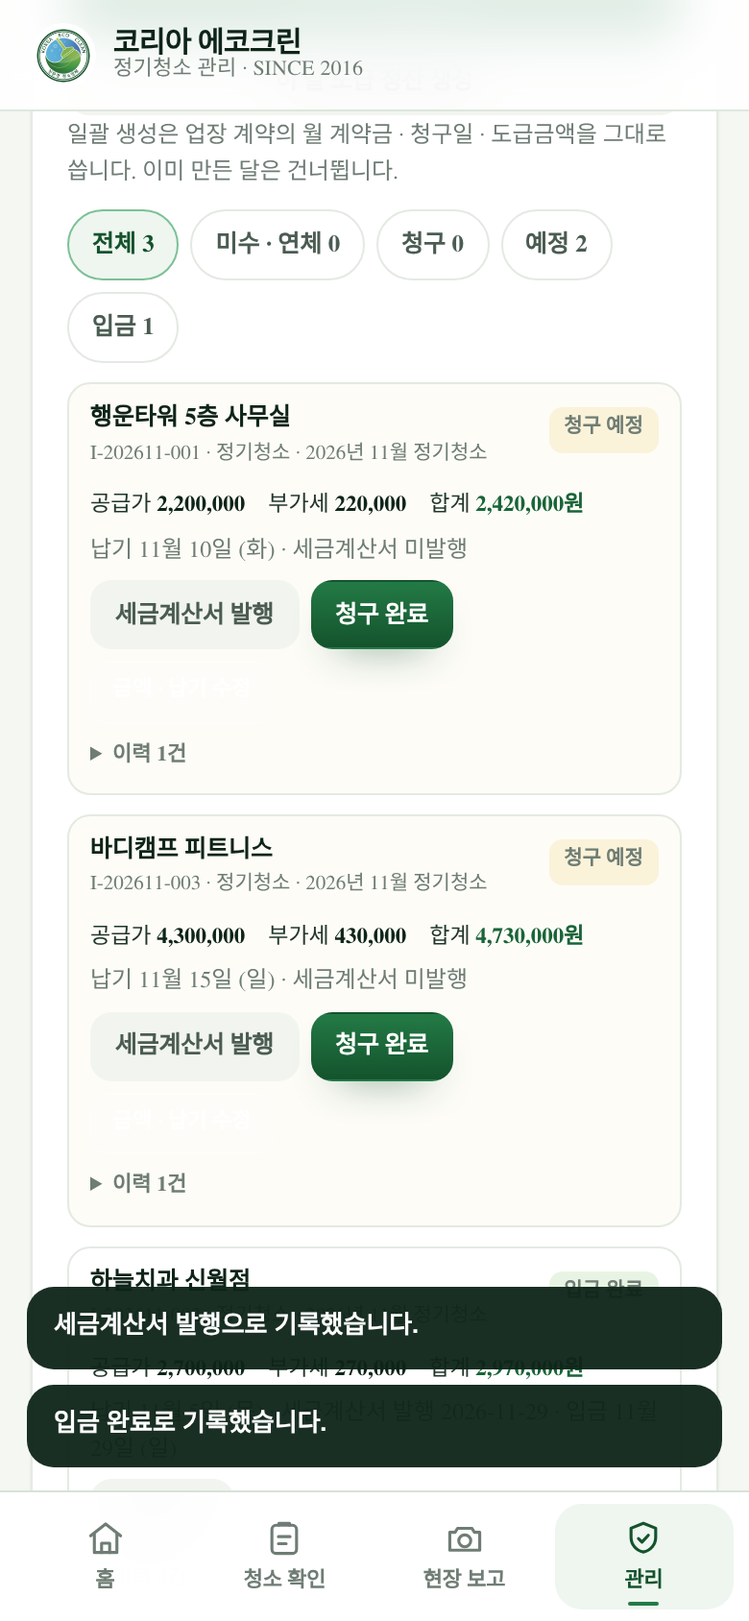
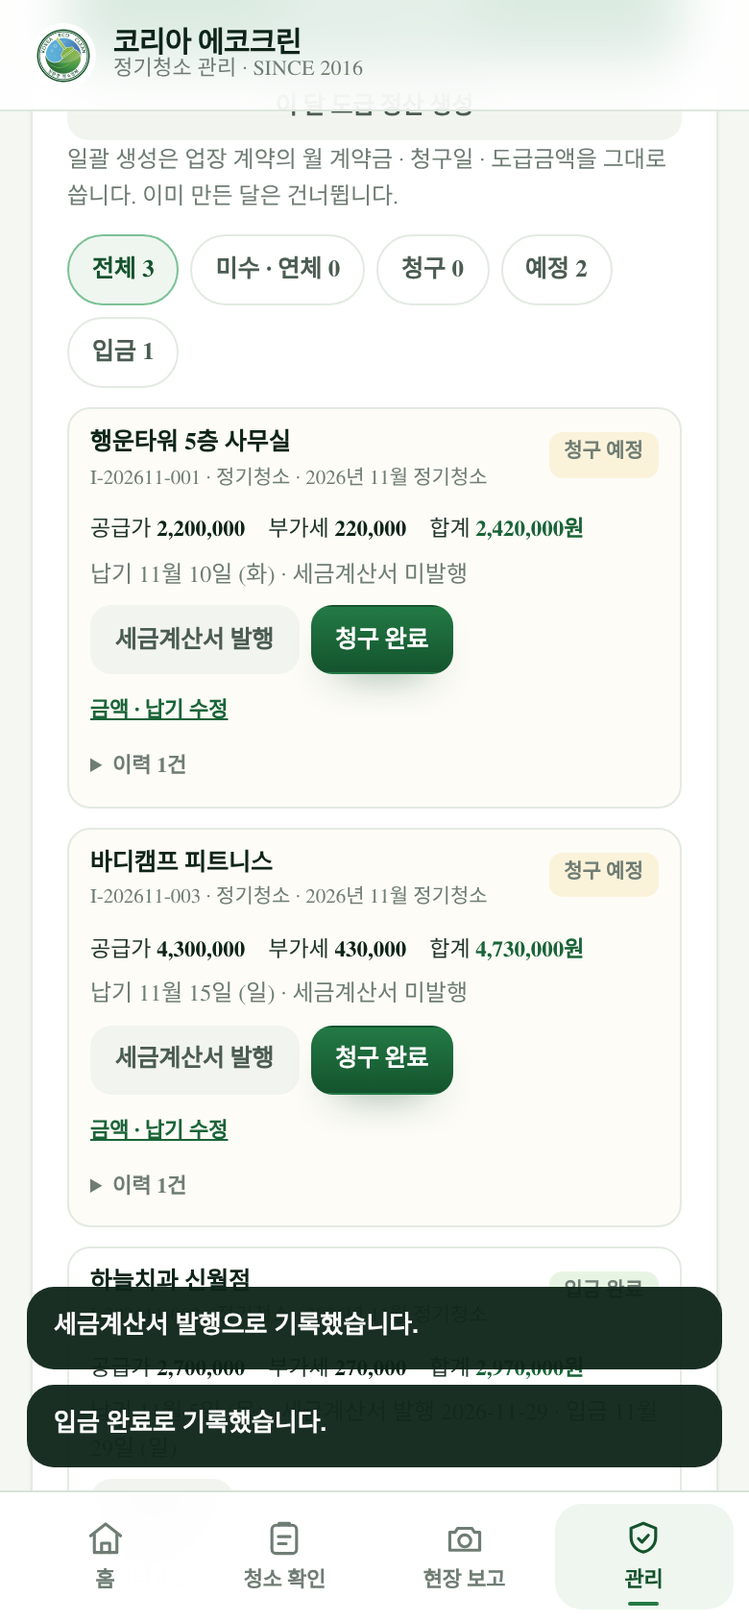
docs: v2.14.0 청구 · 입금 · 미수금 · 도급 정산 기록 · 화면 스크린샷 7장 (라이브 390×844)

diff --git a/app/README.md b/app/README.md
@@ -17,9 +17,9 @@
 | 탭 | 사용자 | 기능 |
 | --- | --- | --- |
 | **홈** | 전체 | 앱 입구 — 회사 로고, 현장 사진 갤러리, **청소 확인 · 현장 보고 · 관리** 바로가기, **회사 홈페이지 배너** |
-| **청소 확인** | 고객 | **등록된 번호는 전화번호만**으로 / **처음 · 추가 인원은 전화번호 + 1회용 초대코드**로 **우리 현장 전용 방** 입장 → **① 견적**(견적서 시트 · 견적 시 오염 사진 · **추가 작업 견적 확인·승인**) · **② 계약**(표준 도급 계약서 전자서명·PDF · **고객사 사업자등록증 업로드/미리보기** · 특이사항) · **③ 관리**(3단계 비교 + 일자별 청소 보고 + **추가 작업 안내**) |
-| **현장 보고** | 팀장 · 직원 | 전화번호+비밀번호+**팀장 고유코드** 또는 **1회용 직원 초대코드** 로그인 → **관리업장 · 계약서(본인) · 장비 · 봉투** 탭 → 현장 선택 시 **본인 도급 조건**(이 업장의 도급금액) + **현장 운영 정보**(청소 공정·출입방법·쓰레기 배출위치·주차방법) + **사진 3분류**·점검 항목·메모 보고(등록 후 대표 확인을 거쳐 고객사 제출) + **특이사항 목록 · 직접 등록**(진행 상태만, 금액 없음). **장비 · 봉투**는 청소장비·배접봉투 구입 신청과 내 영수증(인쇄/PDF) — **구입 당사자 직원만** 보입니다 |
-| **관리** | 최고관리자(대표) · 부관리자(본부장) | **최고관리자**: **보고 확인 · 고객사 제출**(팀장 보고 승인) · **특이사항 · 추가 영업**(발견 → 추가 견적 초안 → 고객 발송 → 승인 → 작업 완료/보류) · **관리자 모드 ↔ 직원 모드 전환** · 전체 매출 정리 · 고객 견적/계약 · 직원 계약(금액 포함) · **직원 평가(A~F)** · 직원방 · **청소장비·봉투 단가와 영수증 발행** · 현장/팀장/고객 관리 전부. **부관리자(본부장)**: 본인 담당 현장의 운영 정보와 내 계약서만 — 다른 직원의 관리·직원 평가·고객 계약서·견적서·금액은 표시되지 않습니다 |
+| **청소 확인** | 고객 | **등록된 번호는 전화번호만**으로 / **처음 · 추가 인원은 전화번호 + 1회용 초대코드**로 **우리 현장 전용 방** 입장 → **① 견적**(견적서 시트 · 견적 시 오염 사진 · **추가 작업 견적 확인·승인**) · **② 계약**(표준 도급 계약서 전자서명·PDF · **고객사 사업자등록증 업로드/미리보기** · 특이사항) · **③ 관리**(3단계 비교 + 일자별 청소 보고 + **추가 작업 안내** + **청구 · 입금 · 세금계산서**) |
+| **현장 보고** | 팀장 · 직원 | 전화번호+비밀번호+**팀장 고유코드** 또는 **1회용 직원 초대코드** 로그인 → **관리업장 · 계약서(본인) · 장비 · 봉투** 탭 → 현장 선택 시 **본인 도급 조건**(이 업장의 도급금액) + **현장 운영 정보**(청소 공정·출입방법·쓰레기 배출위치·주차방법) + **사진 3분류**·점검 항목·메모 보고(등록 후 대표 확인을 거쳐 고객사 제출) + **특이사항 목록 · 직접 등록**(진행 상태만, 금액 없음) + **내 도급 정산**(본인 것만). **장비 · 봉투**는 청소장비·배접봉투 구입 신청과 내 영수증(인쇄/PDF) — **구입 당사자 직원만** 보입니다 |
+| **관리** | 최고관리자(대표) · 부관리자(본부장) | **최고관리자**: **보고 확인 · 고객사 제출**(팀장 보고 승인) · **특이사항 · 추가 영업**(발견 → 추가 견적 초안 → 고객 발송 → 승인 → 작업 완료/보류) · **관리자 모드 ↔ 직원 모드 전환** · 전체 매출 정리(계약 매출 vs 청구 vs 입금 vs 미수금) · **청구 · 입금 · 미수금**(월별 청구 생성 · 청구/입금/세금계산서 처리) · **팀장 도급 정산**(월별 정산 · 지급 완료) · 고객 견적/계약 · 직원 계약(금액 포함) · **직원 평가(A~F)** · 직원방 · **청소장비·봉투 단가와 영수증 발행** · 현장/팀장/고객 관리 전부. **부관리자(본부장)**: 본인 담당 현장의 운영 정보와 내 계약서만 — 다른 직원의 관리·직원 평가·고객 계약서·견적서·금액은 표시되지 않습니다 |
 
 - 보고를 등록하면 **최고관리자(대표) 확인 대기**로 등록되고, 대표가 확인해 **고객사에 제출**해야 고객 방에 표시됩니다.
 - 각 고객사는 **자기 현장 기록만** 볼 수 있습니다(방 격리).
@@ -138,6 +138,73 @@
 
 - 관리 → 새 현장 등록에서 담당 팀장을 고르거나, 현장의 담당 팀장을 바꾸면 그 팀장의 계약서 `siteIds`(별첨 표)에 **현장이 자동으로 들어갑니다**.
 - **체결된 계약서**는 금액·서명·기간을 건드리지 않고 별첨 줄만 더합니다(금액이 비어 있는 새 줄은 공란). 담당이 아닌 팀장의 **미체결** 계약서에서는 빠집니다.
+
+### v2.14.0 — 청구 · 입금 · 미수금 · 팀장 도급 정산 (통합 운영 앱 9단계 · 기획서 22·23장)
+
+> 2026-11-28 "결제 · 청구 · 미수금 · 도급 정산 이어서 진행". **유료 PG · 자동이체 없이**(업장 레코드 안 `site.invoices[]` · `site.payouts[]`), **새 서버 컬렉션 · 스키마 변경 · 운영 데이터 마이그레이션 없음**.
+> 돈은 앱이 움직이지 않습니다 — 계좌이체 · 홈택스 발행은 대표가 직접 하고, 앱은 **청구 · 입금 · 지급 기록**을 남깁니다.
+
+**① 「전체 매출 정리」에 계약 매출 vs 청구 vs 입금 vs 미수금**
+
+- 기존 계약금 · 도급 · 수수료 · 순수 매출 아래에 **계약 매출(월) · 청구 합계 · 입금 완료 · 미수금** 네 칸이 따로 붙습니다. 미수금은 주황색으로 눈에 띄게.
+- 계약 매출은 월 계약금, 청구 합계는 그 달 청구서 합계(예정 포함), 입금 완료는 실입금, 미수금은 청구 − 입금(일부 입금의 남은 금액 포함)입니다.
+
+**② 「청구 · 입금 · 미수금」 — 만들고 → 청구하고 → 받으면 입금**
+
+- **[이 달 청구 일괄 생성]** — 업장 계약의 **월 계약금 · 청구일**로 그 달 정기청소 청구를 만듭니다(번호 `I-YYYYMM-NNN`, 업장이 달라도 번호가 이어짐). 계약금이 비어 있는 업장은 만들지 않고 "계약금 미등록 N곳"으로 알려 줍니다. 두 번 눌러도 중복되지 않습니다.
+- 청구 카드: 공급가 · 부가세(10%) · 합계 · 납기일 · 세금계산서 발행 여부 · 이력.
+  - **[청구 완료]** → 청구 예정에서 청구로. **납기일이 지나면 자동으로 «미수 · 연체»** 로 보입니다(색 · 필터 · 「납기 지남」 표시).
+  - **[세금계산서 발행]** → 발행일을 오늘로 기록(발행 취소도 가능). 실제 발행은 홈택스에서 직접.
+  - **[입금 완료]** → 오늘 입금으로 기록. 일부만 받았다면 **[금액 · 납기 수정]** 에서 금액을 맞추고 처리.
+  - 예정 청구는 **[청구 취소]** 가능. 입금 완료된 청구는 금액을 바꿀 수 없습니다.
+- 상태 필터(전체 · 미수 · 청구 · 예정 · 입금)로 미수 · 연체 건만 모아 바로 처리합니다.
+
+**③ 추가 작업 청구** — 고객이 승인한 추가 작업 견적(`A-2026-001`)을 골라 그 달 청구로 올립니다(금액은 견적 금액, 필요하면 수정). 같은 견적으로 두 번 청구되지 않습니다.
+
+**④ 「팀장 도급 정산」 — 도급계약서 지급일(익월 15일) 기준**
+
+- **[이 달 도급 정산 생성]** — 업장 **도급금액**과 팀장 도급계약서 **지급일**로 팀장별 정산을 만듭니다(번호 `P-YYYYMM-NNN`). 담당 팀장은 ① 이 업장 팀장 계약의 계정 → ② 배정 → ③ 담당 팀장 이름 순으로 찾고, **대표가 맡은 업장 · 팀장 계정이 없는 업장은 만들지 않습니다.**
+- 정산 카드: 도급액 · 부가세 · 지급액 · 지급일. **[지급 완료]** 를 누르면 오늘 지급으로 기록하고 팀장 화면에 바로 보입니다.
+- 팀장은 현장 화면의 **「내 도급 정산」** 에서 본인 정산의 월 · 지급일 · 지급액 · 상태만 봅니다. **본부장 화면에는 이 패널이 없습니다.**
+
+**⑤ 권한 분리**
+
+| 항목 | 대표 | 본부장 | 팀장 · 직원 | 고객 |
+| --- | --- | --- | --- | --- |
+| 고객 청구 금액 · 미수금 · 세금계산서 | 전체 | **X** | **X** | 본인 업장만 |
+| 청구 생성 · 청구/입금/발행 처리 | O | X | X | X |
+| 팀장 도급 정산 | 전체 | 본인 것만 | **본인 것만** | **X** |
+| 내부 메모 · 이력 · 견적 id | O | X | X | **X** |
+
+- 고객 ③ 관리의 **「청구 · 입금」**: 본인 업장의 청구월 · 공급가 · 부가세 · 합계 · 상태 · **세금계산서 발행 여부** 만. 직원 이름 · 내부 메모 · 다른 업장 · 도급 정산은 나오지 않습니다.
+- 청구 생성 · 입금 · 세금계산서 발행 · 도급 지급은 모두 **업장 변경 이력**에 남습니다.
+
+**⑥ 화면**
+
+| 매출 정리 (계약·청구·입금·미수) | 청구 · 입금 · 미수금 | 미수 · 연체 카드 | 팀장 도급 정산 |
+| --- | --- | --- | --- |
+| ![매출](docs/screenshots/v2140-admin-revenue.png) | ![청구](docs/screenshots/v2140-admin-billing.png) | ![미수](docs/screenshots/v2140-admin-misoo.png) | ![정산](docs/screenshots/v2140-admin-payout.png) |
+
+| 입금 완료 카드 | 고객 청구 · 입금 | 팀장 내 도급 정산 |
+| --- | --- | --- |
+| ![입금](docs/screenshots/v2140-admin-paid.png) | ![고객](docs/screenshots/v2140-customer-billing.png) | ![팀장](docs/screenshots/v2140-leader-payout.png) |
+
+- `js/store.js` — `INVOICE_STATUS` · `PAYOUT_STATUS` · `billingMonthKey` · `billingDueDate` · `payoutDueDate` · `invoiceStats` · `payoutStats` · `normalizeInvoice(s)` · `normalizePayout(s)` · `listInvoices` · `getInvoice` · `generateMonthlyInvoices` · `createExtraInvoice` · `updateInvoice` · `markInvoiceBilled` · `markInvoicePaid` · `setInvoiceTaxInvoice` · `cancelInvoice` · `generateMonthlyPayouts` · `listPayouts` · `markPayoutPaid` · `billingSummary`.
+- `js/views/admin.js` — 「전체 매출 정리」의 청구 칸 · 「청구 · 입금 · 미수금」 · 「팀장 도급 정산」 · `js/views/customer.js` — 고객 「청구 · 입금」 · `js/views/leader.js` — 「내 도급 정산」 · `css/styles.css` · `sw.js` `CACHE_VERSION` **v2.14.0**.
+
+**검증 (2026-11-28)**
+
+| 테스트 | 결과 |
+| --- | --- |
+| `tests/test_stage8_billing.py` (신규) | **144/144** — 번호 · 납기 · 부가세 계산, 청구/입금/세금계산서/취소, 미수 판정, 추가 청구, 도급 정산, 권한 4역할, 라이브 63행 보존 |
+| `tests/test_stage8_render.py` (신규) | **58/58** — 대표 매출 정리 4칸 · 청구 패널 · 정산 패널, 고객 청구 칸, 팀장 내 정산(고객 금액 비노출), 본부장 비노출 |
+| `tests/browser_stage8.py` (신규) | **35/35** — 실제 Chromium 전 과정, 콘솔 오류 0 |
+| `tests/live_stage8.py` (신규) | **34/34** — 라이브 배포본 390×844, `?sync=off` |
+| 기존 25종 + `run_tests.py` | **2,022/2,022** |
+| `browser_test` · `browser_stage4`~`7` · `browser_v2111` | 273 · 40 · 50 · 65 · 42 · 33 |
+| `check_static` · `run_views` | ALL PASSED |
+
+합계 **2,022개 파이썬 검사 + 538개 브라우저 검사 + 라이브 34개** 통과. 라이브 DB `ecoclean_items` **63행 그대로**(sha256 동일). 서비스 워커 `CACHE_VERSION` **v2.14.0**, GitHub Pages `built` 확인.
 
 ### v2.13.0 — 특이사항 · 추가 견적 자동 생성 (통합 운영 앱 8단계 · 기획서 21장)
 
@@ -1014,6 +1081,12 @@ vercel --prod
   quoteId,                                 /* 이 업장이 나온 견적 */
   contractId,                              /* 이 업장의 고객 계약서 */
   staffContractIds:[...],                  /* 이 업장을 맡은 팀장 계약들 */
+  /* 9단계 (v2.14.0) — 청구 · 팀장 도급 정산 (업장 레코드 안, 새 컬렉션 없음) */
+  invoices:[{ id, invoiceNo:'I-202611-001', month:'2026-11', kind:'regular|extra', quoteId,
+              title, dueDate, amount, vat, total, status:'scheduled|billed|paid|overdue',
+              taxInvoice:'none|issued', taxIssuedAt, paidAt, paidAmount, note, history:[...] }],
+  payouts:[{ id, payoutNo:'P-202611-001', month:'2026-11', leaderId, leaderName, contractId,
+             dueDate, amount, vat, total, status:'scheduled|paid', paidAt, note, history:[...] }],
   history:[{ id, at, actor, action, note, changes:[{field, from, to}] }] }
 
 // 실제 고객사 예시: (주) 라이트하우스코스메틱 (site_lighthouse, EC-4108,
@@ -1084,6 +1157,10 @@ storage tables: `sites` `reports` `photos` `inquiries` `accounts` `roomCodes` `g
 - iPhone Safari는 `capture` 속성을 무시하고 사진 선택만 됩니다(사진 보관함 → 카메라 촬영 가능).
 - 다크 모드는 지원하지 않습니다(브랜드 라이트 테마 고정).
 - 등록된 번호는 비밀번호 없이 입장하므로, 번호를 아는 사람은 그 기기에서 방을 열 수 있습니다. 실제 운영에서는 서버 인증 + OTP로 반드시 바꾸세요.
+- **v2.14.0 청구 · 정산은 기록만 합니다.** 실제 결제(PG) · 자동이체 · 세금계산서 발행(홈택스) · 계좌 입금 확인은 대표가 직접 하고, 앱에는 청구 · 입금 · 지급 사실만 남깁니다. 청구서 · 정산서 PDF/인쇄 시트는 아직 없습니다.
+- 청구 · 정산도 업장 레코드 안에 쌓이므로 **두 기기가 같은 업장을 동시에 고치면 나중 저장이 이깁니다**(방문 기록 · 특이사항과 같은 한계). Supabase Auth · RLS 전환 때 별도 테이블로 분리하는 것이 좋습니다.
+- 도급 정산의 부가세는 10%로 잡혀 있습니다. 프리랜서(3.3% 원천징수) 정산은 금액을 직접 고쳐 주세요(자동 원천징수 계산 없음).
+- 미수(연체)는 납기일과 오늘을 비교해 화면에서 계산합니다. 문자 · 메일 독촉 알림은 아직 없습니다.
 
 ---
 

diff --git a/app/docs/upgrade-plan-1to10.md b/app/docs/upgrade-plan-1to10.md
@@ -651,6 +651,101 @@
 - 추가 견적 PDF는 기존 견적서 시트의 인쇄를 그대로 씁니다(서버 PDF 생성 없음).
 - 특이사항 사진은 보고서 사진 참조를 재사용합니다. 보고서를 삭제해도 특이사항은 남습니다(기록 보존).
 
+## 9-I. 청구 · 입금 · 미수금 · 팀장 도급 정산 단계에서 실제로 구현한 것 (v2.14.0 · 기획서 22·23장)
+
+기획서 22장(결제 · 청구 · 미수금)과 23장(팀장 도급 정산)을 **무료 범위**(업장 레코드 안 `invoices[]` · `payouts[]`)로 올렸습니다.
+**새 서버 컬렉션 · 서버 스키마 · 운영 데이터 마이그레이션 없음.** 돈이 실제로 오가는 일(PG 결제·자동이체·세금계산서 실제 발행)은 하지 않고,
+**누가 얼마를 청구했고 언제 입금·지급되었는지 기록·확인**하는 데까지입니다(계좌이체 · 홈택스는 대표가 직접).
+
+### 9-I-1. 왜 업장 안(`site.invoices[]` · `site.payouts[]`)에 두었나
+
+`public.ecoclean_items.collection` 의 check 제약을 건드리지 않고(라이브 DB 보호), `site.issues[]` · `site.visits[]` 와 같은 방식으로
+업장 레코드 안에 쌓아 기기 간 동기화를 그대로 씁니다. 예전 업장은 필드가 없어도 빈 배열로 읽힙니다(마이그레이션 불필요).
+
+### 9-I-2. 데이터 (업장 안 `invoices[]` · `payouts[]`)
+
+| 무엇 | 칸 | 모양 |
+| --- | --- | --- |
+| 청구 | `site.invoices[]` | `{id, siteId, siteCode, siteName, invoiceNo, month, kind, quoteId, title, dueDate, amount(공급가), vat, total, status, taxInvoice, taxIssuedAt, paidAt, paidAmount, note, issuedBy, history[], createdAt, updatedAt}` |
+| 청구 번호 | `invoiceNo` | `I-YYYYMM-NNN` — **모든 업장 통틀어** 그 달 순번(중복 없음) |
+| 청구 상태 | `status` | `scheduled`(청구 예정) → `billed`(청구 완료) → `paid`(입금 완료), 납기일이 지나면 **읽을 때 `overdue`(미수 · 연체)** |
+| 세금계산서 | `taxInvoice` | `none`(미발행) · `issued`(발행완료) + `taxIssuedAt` |
+| 청구 구분 | `kind` | `regular`(정기청소 · 월 계약) · `extra`(추가 작업 · 1회, `quoteId` 연결) |
+| 도급 정산 | `site.payouts[]` | `{id, siteId, siteCode, siteName, payoutNo, month, leaderId, leaderName, contractId, dueDate, amount, vat, total, status, paidAt, note, history[], createdAt, updatedAt}` |
+| 정산 번호 | `payoutNo` | `P-YYYYMM-NNN` — 같은 방식으로 그 달 순번 |
+| 정산 상태 | `status` | `scheduled`(정산 예정) → `paid`(지급 완료) |
+
+- 청구 · 정산 모두 **전/후 상태 · 사유 · 처리자**를 자기 `history[]` 에 남기고, 같은 동작을 **업장 이력**(`site.history`)에도 남깁니다.
+- 상태 `overdue` 는 저장하지 않고 **납기일과 오늘을 비교해 읽을 때 계산**합니다(기기마다 같은 결과, 값이 저절로 바뀌지 않음).
+
+### 9-I-3. 계산 규칙 (임의 확정 금지)
+
+| 항목 | 규칙 |
+| --- | --- |
+| 월 청구액(공급가) | 업장 계약의 `contract.contractAmount`(월 계약금). 비어 있으면 청구를 만들지 않고 `계약금 미등록`으로 건너뜁니다. |
+| 부가세 | 공급가의 **10%**(`vatOf`). 계약 비고에 `부가세 포함`이 있으면 0원 · 합계 = 공급가. |
+| 납기일 | 계약의 청구일(`billingDay`)을 해석 — `매월 10일`·`10` → 그 달 10일, `익월 15일` → 다음 달 15일, 숫자가 없으면(`협의 중`) **납기일 없음**(그래서 미수 판정도 안 함). 31일은 그 달 말일로 맞춤. |
+| 청구 번호 | 그 달 마지막 `I-YYYYMM-NNN` + 1 (업장이 달라도 이어짐) |
+| 정산 지급액 | 업장 계약의 `contract.subcontractAmount`(도급금액) + 부가세 10% |
+| 정산 지급일 | 팀장 도급계약서의 지급일(`settlementDay`, 기본 15)을 **익월**로 계산(도급계약서 제5조 지급일 익월 15일 기준). `당월`이라고 적힌 계약만 그 달. |
+| 정산 담당 팀장 | ① 이 업장의 팀장 계약 중 계정이 연결된 것(체결 우선) → ② 업장 `assignee` → ③ 담당 팀장 이름과 같은 팀장 계정. **대표(채종병)가 맡은 업장 · 팀장 계정이 없는 업장은 만들지 않고 건너뜁니다.** |
+| 청구 합계 · 미수금 | 청구 합계 = 그 달 청구서 전체(예정 포함). 입금 완료 = 실입금 합계(일부 입금 포함). **미수금 = 청구 − 입금**(일부 입금의 남은 금액 포함), 연체 = 그중 납기 지난 금액. |
+| 계약 매출 | 그 달 월 계약금 합계(계약이 살아 있는 업장). 청구 합계와 따로 보여 계약 대비 청구·입금을 비교합니다. |
+
+- 이미 그 달 정기청구 · 팀장별 정산이 있으면 건너뜁니다(여러 번 눌러도 중복 없음).
+- 추가 작업 청구는 **고객이 승인한 추가 견적**(`quotes.kind:'extra'` + `customerDecision:'approved'`)만 만들 수 있고, 같은 견적으로 두 번 만들지 않습니다.
+- 입금 완료된 청구는 금액을 바꾸지 않고, 아직 청구하지 않은(예정) 청구만 취소할 수 있습니다.
+
+### 9-I-4. 저장소 함수
+
+- 정의: `INVOICE_STATUS` · `INVOICE_STATUS_ORDER` · `INVOICE_KINDS` · `TAX_INVOICE_STATUS` · `PAYOUT_STATUS` · `VAT_RATE` · `MAX_SITE_INVOICES/PAYOUTS` · `billingMonthKey` · `billingMonthLabel` · `shiftBillingMonth` · `vatOf` · `billingDueDate` · `payoutDueDate` · `invoiceKindOf/Label` · `invoiceStatusKey` · `invoiceStatus` · `isInvoicePaid/Unpaid` · `normalizeInvoice(s)` · `sortInvoices` · `invoiceStats` · `invoiceNoSequence` · `nextInvoiceNo` · `customerInvoiceView` · `normalizePayout(s)` · `payoutStatusKey` · `sortPayouts` · `payoutStats` · `payoutNoSequence` · `nextPayoutNo` · `leaderPayoutView`.
+- 조회: `listInvoices({siteId,month,status,unpaid,limit}, {actor})` · `getInvoice` · `listPayouts({siteId,month,status,leaderId}, {actor})` · `billingSummary({month}, {actor})`.
+- 생성 · 처리(대표만): `generateMonthlyInvoices` · `createExtraInvoice` · `updateInvoice` · `markInvoiceBilled` · `markInvoicePaid` · `setInvoiceTaxInvoice` · `cancelInvoice` · `generateMonthlyPayouts` · `markPayoutPaid`.
+- 내부: `_saveSiteInvoices` · `_saveSitePayouts` · `_collectInvoices` · `_collectPayouts` · `_resolveSiteLeader`.
+
+### 9-I-5. 화면
+
+- **대표 「전체 매출 정리」**: 기존 계약금 · 도급 · 수수료 · 순수 매출 아래에 **계약 매출(월) · 청구 합계 · 입금 완료 · 미수금** 칸을 따로 추가했습니다.
+- **대표 「청구 · 입금 · 미수금」 패널**: ‹ 지난달 / 다음달 › 이동, 합계 4칸, **[이 달 청구 일괄 생성]**, **[이 달 도급 정산 생성]**, 상태 필터(전체 · 미수·연체 · 청구 · 예정 · 입금), 청구 카드마다 공급가·부가세·합계·납기·세금계산서·이력과 **[청구 완료] · [입금 완료] · [세금계산서 발행] · [금액 · 납기 수정](예정 청구는 [청구 취소])**. 미수(연체) 건이 먼저 옵니다.
+- **대표 「팀장 도급 정산」 패널**: 이 달 정산 예정 · 지급 완료 합계, 팀장별 카드(도급액 · 부가세 · 지급액 · 지급일)와 **[지급 완료]**(실지급일·메모 기록).
+- **추가 작업 청구 만들기**: 고객이 승인했지만 아직 청구하지 않은 추가 견적을 골라 그 달 청구로 만듭니다(금액 확인·수정 가능).
+- **고객 ③ 관리 「청구 · 입금」**: 본인 업장의 청구월 · 구분 · 공급가 · 부가세 · 합계 · 납기 · 상태(입금 완료 · 입금 전) · **세금계산서 발행 여부**만. 직원 이름 · 내부 메모 · 견적 id · 도급 정산은 나오지 않습니다.
+- **팀장 「내 도급 정산」**(업장 화면, 「내 도급 조건」 아래): 본인 정산의 월 · 번호 · 지급일 · 지급액 · 상태만. **고객 청구 금액 · 다른 팀장 정산 · 회사 내부 조건은 나오지 않습니다.** 본부장(부관리자) 화면에는 이 패널이 없습니다.
+
+### 9-I-6. 권한 분리 (구현 · 테스트로 확인)
+
+| 항목 | 대표 | 본부장 | 팀장 · 직원 | 고객 |
+| --- | --- | --- | --- | --- |
+| 고객 청구 · 미수금 · 세금계산서 | 전체 | **X**(요청 거절) | **X**(요청 거절) | 본인 업장만 |
+| 청구 생성 · 청구/입금/발행 처리 | O | X | X | X |
+| 팀장 도급 정산 | 전체 | 본인 것만(금액은 본인 것만) | **본인 것만** | **X**(요청 거절) |
+| 도급 정산 생성 · 지급 처리 | O | X | X | X |
+| 내부 메모 · 이력 · 견적 id | O | X | X | **X** |
+
+### 9-I-7. 검증 (2026-11-28)
+
+| 테스트 | 결과 |
+| --- | --- |
+| `tests/test_stage8_billing.py` (신규) | **144/144** — 번호 · 날짜 · 부가세 계산, 청구 생성/중복 방지, 청구→입금→세금계산서→취소, 미수 판정, 추가 청구, 요약, 도급 정산(담당 팀장 해석·익월 지급일), 권한 4역할, 업장 이력, 라이브 63행 보존 |
+| `tests/test_stage8_render.py` (신규) | **58/58** — 대표 매출 정리 4칸 · 청구 패널 · 카드 버튼 · 미수 먼저 · 정산 패널, 고객 청구 칸(금액 · 세금계산서 · 입금), 팀장 내 정산(고객 금액 비노출), 본부장 비노출, 이스케이프 |
+| `tests/browser_stage8.py` (신규) | **35/35** — 실제 Chromium 전 과정(일괄 생성 3건 → 청구 완료 → 미수 → 세금계산서 → 입금 → 정산 5건 → 지급 → 고객 · 팀장 화면), 콘솔 오류 0 |
+| 기존 25종 + `run_tests.py` | **2,022/2,022** |
+| `browser_test` · `browser_stage4`~`7` · `browser_v2111` | 273 · 40 · 50 · 65 · 42 · 33 (합계 503) |
+| `check_static.py` · `run_views.py` | ALL PASSED |
+| `tests/live_stage8.py` (라이브) | **34/34** — 배포본 390×844, `?sync=off` 로 기기에만 기록 |
+
+합계 **2,022개 파이썬 검사 + 538개 브라우저 검사 + 라이브 34개** 통과.
+서비스워커 `CACHE_VERSION` **v2.14.0**, GitHub Pages 빌드 **built**(커밋 `7963611`).
+**라이브 DB 사후 확인**: `ecoclean_items` **63행 그대로**, sha256 `2437644f…` 동일(추가 · 변경 0).
+
+### 9-I-8. 남은 것
+
+- 돈이 실제로 움직이지 않습니다 — PG 결제 · 자동이체 · 세금계산서 실발행(홈택스) · 계좌 입금 확인은 대표가 직접 하고 앱에는 **기록만** 남깁니다(무료 버전 원칙).
+- 청구 · 정산도 업장 레코드 안에 쌓이므로 **두 기기가 같은 업장을 동시에 고치면** 나중 저장이 이깁니다(기존 visits · issues 와 같은 한계). Supabase Auth · RLS(0단계) 때 별도 테이블로 분리하는 것이 좋습니다.
+- 청구서 · 정산서 **PDF/인쇄 시트**는 아직 없습니다(견적서 · 계약서 · 영수증은 있음). 필요하면 다음 단계에서 추가.
+- 도급 정산의 부가세는 10%로 잡혀 있습니다. 프리랜서(3.3% 원천징수) 계약의 정산은 금액을 정산 카드에서 직접 고쳐야 합니다(자동 원천징수 계산 없음).
+- 미수(연체)는 화면에서 보이는 계산값입니다. 알림(문자 · 메일)으로 독촉하는 기능은 10단계 알림함에서 다룹니다.
+
 ## 10. 구현 상태 표기 규칙 (기획서 30장 7·8항)
 
 화면에서 "되는 것처럼" 보이지 않게 다음 규칙을 씁니다.
@@ -710,10 +805,10 @@
 - 데이터: 새 컬렉션 없음(`sites` 안 `issues[]` + `quotes.kind/issueId`). 상세는 9-H장.
 - 원칙: 고객에게 자동 발송 금지(대표가 금액을 넣고 [고객에게 발송]을 눌러야 보임).
 
-### 9단계 — 결제·정산 (기획서 22·23장)
-- 신규: `invoices`(청구월·예정일·금액·상태·세금계산서·미수금), `payouts`(팀장 도급 정산).
-- 재사용: `site.contract`(계약금·도급·수수료·청구일) → 청구서 자동 생성. 매출 표에 "계약 매출 vs 입금" 분리.
-- 권한: 팀장은 본인 정산만, 본부장은 금액 비노출 유지.
+### 9단계 — 결제·정산 (기획서 22·23장) ✅ v2.14.0
+- 구현: `site.invoices[]`(청구 예정 → 청구 → 입금, 납기 지난 청구는 미수 · 연체) · `site.payouts[]`(팀장 도급 정산 → 지급 완료) · 월별 일괄 생성 · 추가 작업 청구(승인 견적) · 세금계산서 발행 체크 · **대표 「전체 매출 정리」의 계약 매출 vs 청구 합계 vs 입금 완료 vs 미수금** · 「청구 · 입금 · 미수금」 · 「팀장 도급 정산」 패널 · 고객 「청구 · 입금」 · 팀장 「내 도급 정산」.
+- 데이터: 새 컬렉션 없음(`sites` 안). 상세는 9-I장.
+- 원칙: 돈은 움직이지 않습니다(계좌이체 · 홈택스 직접) — 앱은 청구 · 입금 · 지급 **기록**만. 권한은 팀장·본부장에게 고객 금액 비노출, 팀장은 본인 정산만.
 
 ### 10단계 — 평가·대시보드·컨플레인·재계약 (기획서 24·25·26·27장)
 - 재사용: 근무태도 A~F, 보고율·지연, 컨플레인.
